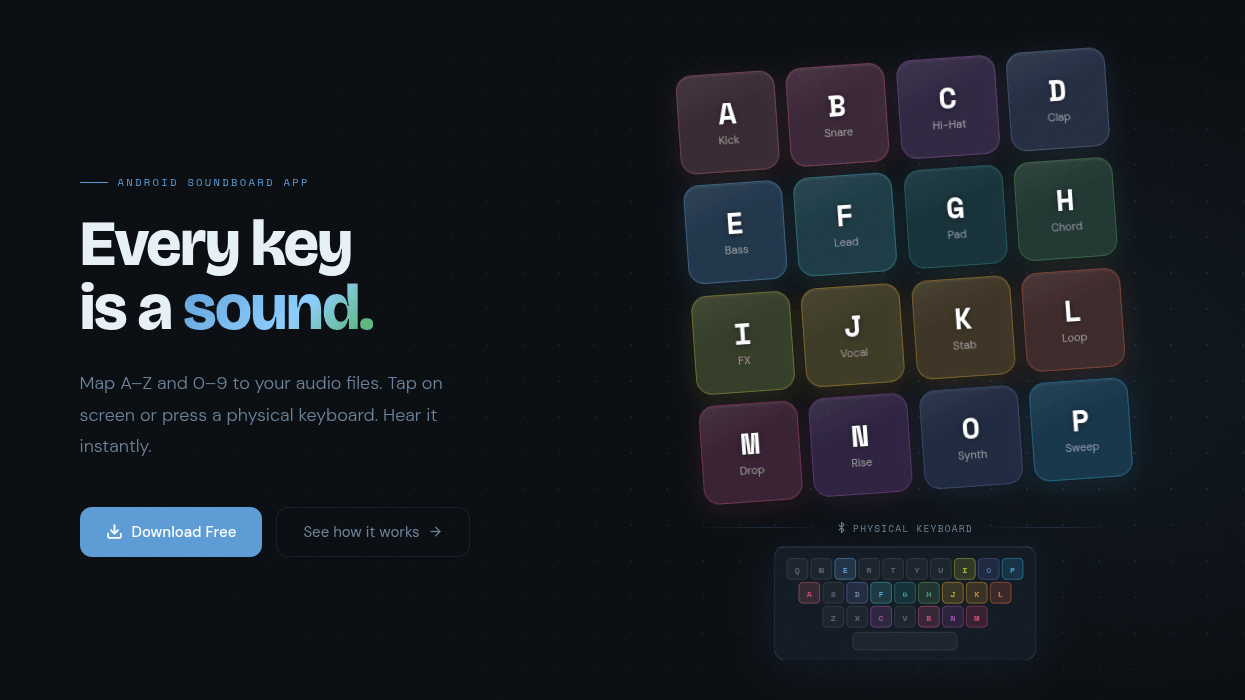
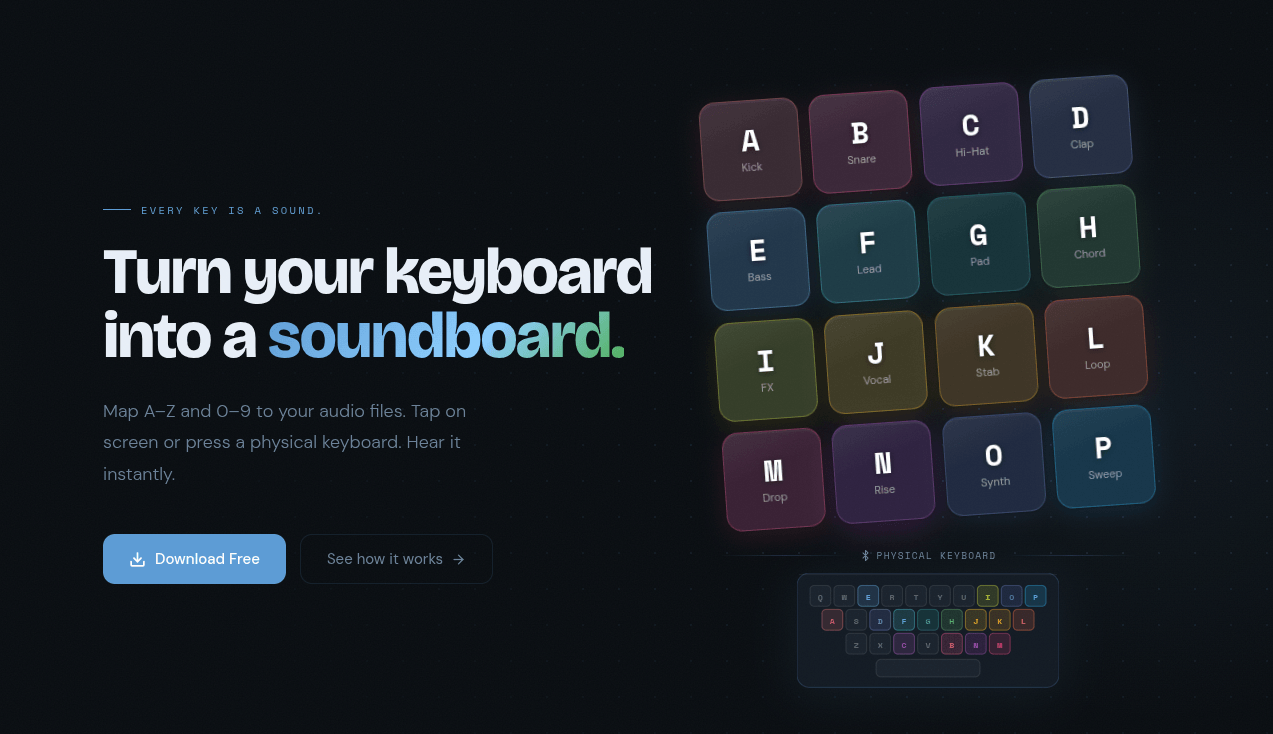
some fixes

diff --git a/index.html b/index.html
@@ -168,8 +168,8 @@
 
   <div class="hero-inner">
   <div class="hero-left">
-    <p class="hero-tag">Android Soundboard App</p>
-    <h1 class="hero-h1">Every key<br>is a <span class="hl">sound.</span></h1>
+    <p class="hero-tag">Every key is a sound.</p>
+    <h1 class="hero-h1">Turn your keyboard<br>into a <span class="hl">soundboard.</span></h1>
     <p class="hero-sub">Map A–Z and 0–9 to your audio files. Tap on screen or press a physical keyboard. Hear it instantly.</p>
     <div class="hero-actions">
       <a href="https://play.google.com/store/apps/details?id=com.anoop.myprojects.ctunes" target="_blank" rel="noopener noreferrer" class="btn-fill">
@@ -307,7 +307,7 @@
   <div class="dl-keys" id="dlKeys"></div>
   <div class="download-inner reveal">
     <img src="logo.webp" alt="CTunes" style="width:80px;height:80px;border-radius:50%;object-fit:cover;margin-bottom:24px;box-shadow:0 0 32px rgba(91,155,213,0.25);" />
-    <h2>Your keys.<br>Your sounds.</h2>
+    <h2>Turn your keyboard<br>into a soundboard.</h2>
     <p>Free on Android. No subscription, no sign-in required.</p>
     <a href="https://play.google.com/store/apps/details?id=com.anoop.myprojects.ctunes" target="_blank" rel="noopener noreferrer" class="play-btn">
       <!-- Google Play icon -->
